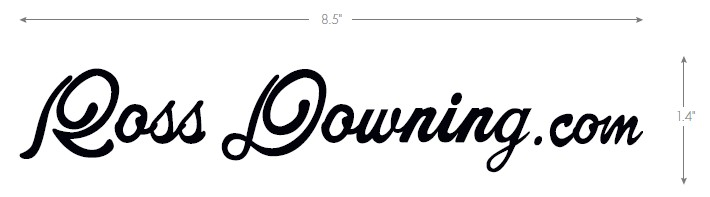
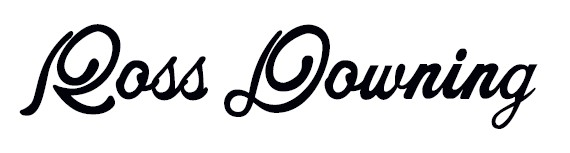
made changes

diff --git a/common/configs/mattbowers.js b/common/configs/mattbowers.js
@@ -17,9 +17,7 @@ export const config = {
       "MB-GPT.EMB",
       "Matt Bowers Chevrolet",
       "Matt Bowers Chevy Slidell",
-      "Matt Bowers Chevrolet Metairie LA.EMB",
-      "Matt Bowers Ford Metairie.EMB",
-      "Matt Bowers Ford Metairie LA", 
+      "Matt Bowers Chevrolet Metairie LA.EMB",      
       "Matt Bowers Hyundai Slidell LA.EMB",
       "Matt Bowers Hyundai Metairie LA.EMB",
       "Matt Bowers Hyundai Gulfport MS.EMB",
@@ -43,9 +41,7 @@ export const config = {
       "MB-GPT.EMB",
       "Matt Bowers Chevrolet",
       "Matt Bowers Chevy Slidell",
-      "Matt Bowers Chevrolet Metairie LA.EMB",
-      "Matt Bowers Ford Metairie.EMB",
-      "Matt Bowers Ford Metairie LA", 
+      "Matt Bowers Chevrolet Metairie LA.EMB",       
       "Matt Bowers Hyundai Slidell LA.EMB",
       "Matt Bowers Hyundai Metairie LA.EMB",
       "Matt Bowers Hyundai Gulfport MS.EMB",
@@ -62,8 +58,7 @@ export const config = {
       "MB with US Flag 1 Color.EMB",      
       "Fleur De Lis-Banner.EMB",
     ],
-    tshirts: [
-      "Matt Bowers Ford Metairie LA",          
+    tshirts: [              
       "Matt Bowers Chevy Slidell",
       "Matt Bowers Hyundai Slidell",
       "Matt Bowers Hyundai Metairie",
@@ -82,9 +77,7 @@ export const config = {
       "MB-GPT.EMB",
       "Matt Bowers Chevrolet",
       "Matt Bowers Chevy Slidell",
-      "Matt Bowers Chevrolet Metairie LA.EMB",
-      "Matt Bowers Ford Metairie.EMB",
-      "Matt Bowers Ford Metairie LA", 
+      "Matt Bowers Chevrolet Metairie LA.EMB",     
       "Matt Bowers Hyundai Slidell LA.EMB",
       "Matt Bowers Hyundai Metairie LA.EMB",
       "Matt Bowers Hyundai Gulfport MS.EMB",

diff --git a/common/catalogs/rossdowning.js b/common/catalogs/rossdowning.js
@@ -772,11 +772,13 @@ export const catalog = [
   {
     code: "DOWCHA-31DD",
     name: "Block Decal",
-    fullname: "Block Decal (No Outline) - 5 in. x .5125 in.",
+    fullname: "Decals - MULTIPLE OPTIONS - Block (With/Without Outline), Cursive, Website ",
     description: `1000 @ $0.60 ea / 2500 @ $0.55 ea / 5000 @ $0.50 ea 
-*Grey does not print.
+*Grey does not print on white decals.
 Block No Outline (5 in. x .5125 in.)
-Cursive decals (8.5 in. x 1.4 in.)`
+Block with Outline (6 in. x .64 in.)
+Cursive (6 in. x 1.21 in.)
+Cursive Website decals (8.5 in. x 1.4 in.)`
   ,    
     colors: ["White","Black"],
     type: "customs",
@@ -785,9 +787,14 @@ Cursive decals (8.5 in. x 1.4 in.)`
     default_color: "White",
      sapVariations: [
       {code: '-520514A', color:'White Block No Outline'},
-      {code: '-520517A', color:'White Cursive'},
-      {code: '-491422A', color:'Black Block No Outline'}, 
-      {code: '-433238A', color:'Black Cursive'}, 
+      {code: '-520504A', color:'White Cursive'},
+      {code: '-520511A', color:'White Block with Outline'},
+      {code: '-520517A', color:'White Website Cursive'},
+
+      {code: '-491422A', color:'Black Block No Outline'},      
+      {code: '-496593A', color:'Black Cursive'},
+      {code: '-496997A', color:'Black Block with Outline'},      
+      {code: '-433238A', color:'Black Website Cursive'},  
        
      ],   
     quantities: [1000, 2500, 5000],

diff --git a/client/src/routes/Modification/colors.css b/client/src/routes/Modification/colors.css
@@ -454,11 +454,19 @@
   background-color: black;
 }
 
+.Black_Cursive {
+  background-color: black;
+}
+
+.Black_Cursive_Website {
+  background-color: black;
+}
+
 .Black_Block_No_Outline {
   background-color: black;
 }
 
-.Black_Cursive {
+.Black_Block_Outline {
   background-color: black;
 }
 
@@ -2078,7 +2086,15 @@
   background-color: #ffffff;
 }
 
+.White_Cursive_Website {
+  background-color: #ffffff;
+}
+
 .White_Block_No_Outline {
+  background-color: #ffffff;
+}
+
+.White_Block_Outline {
   background-color: #ffffff;
 }
 
